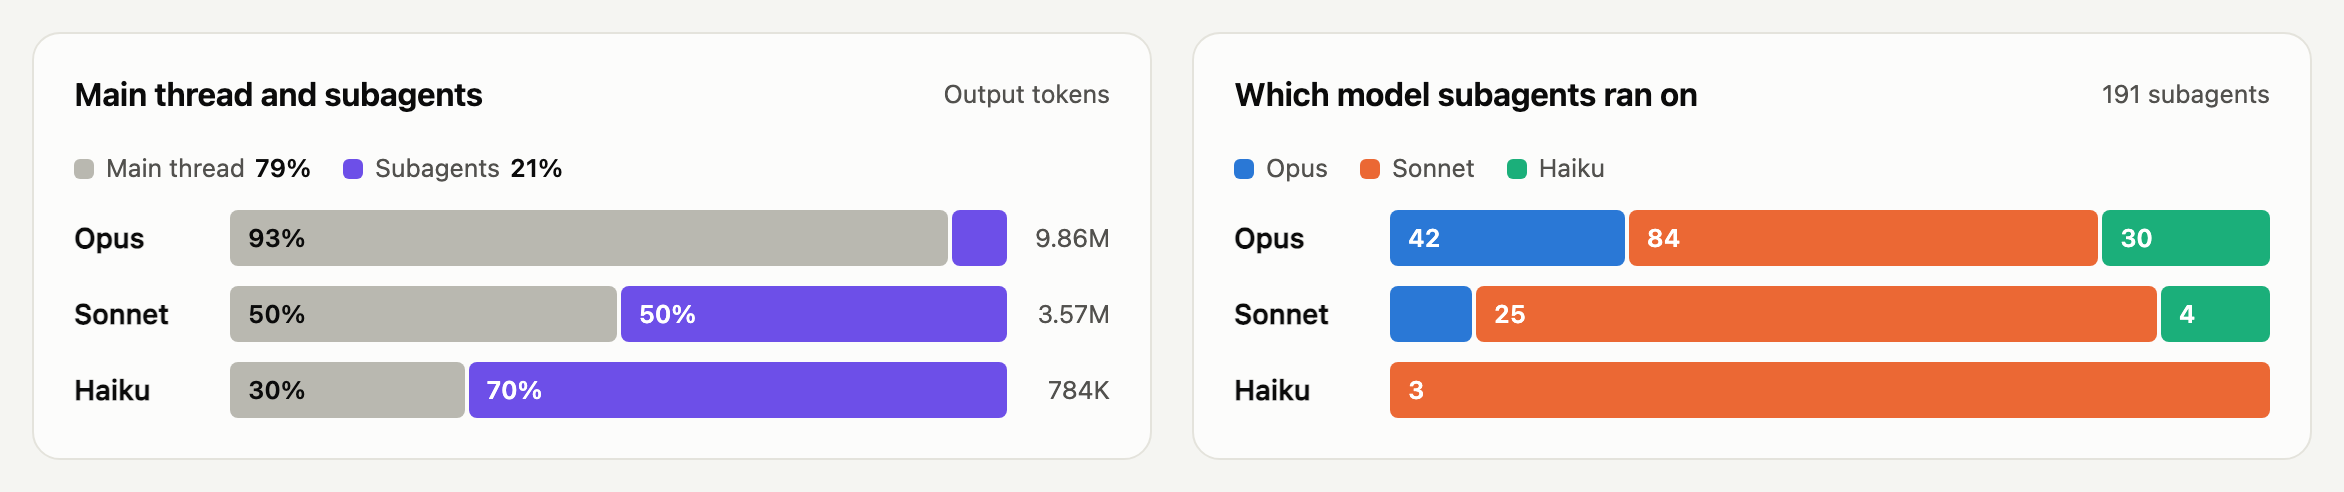
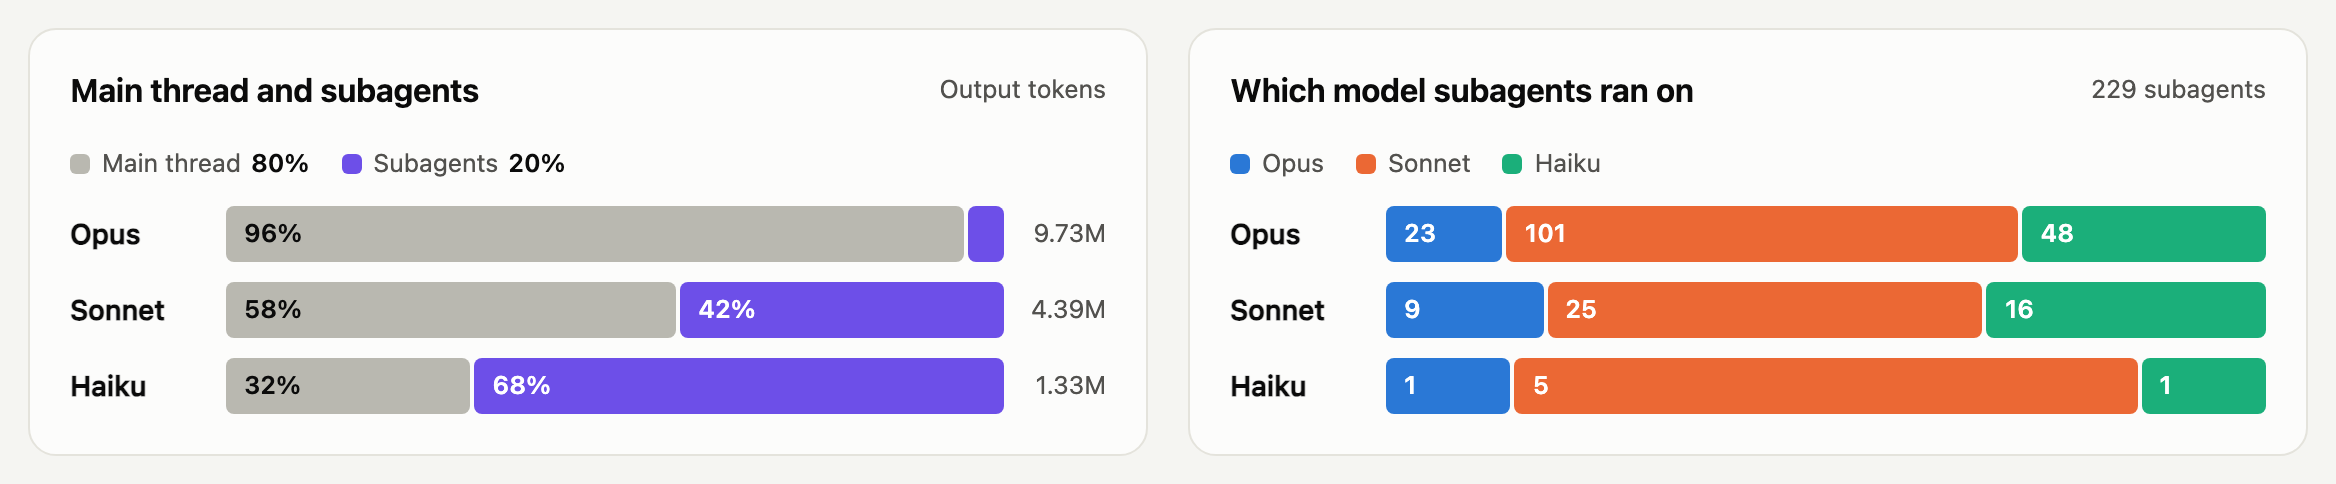
build: add make screenshots to retake the README images

diff --git a/CLAUDE.md b/CLAUDE.md
@@ -8,7 +8,8 @@ A local dashboard and CLI that reads the AI coding agent transcripts on this mac
 | --- | --- |
 | `make` | List the targets |
 | `make start` / `make dev` | Build and serve the dashboard at http://localhost:4310 / the same with hot reload |
-| `make demo` | Serve made-up data at http://localhost:4311; the source of the README screenshots |
+| `make demo` | Serve made-up data at http://localhost:4311 |
+| `make screenshots` | Retake the README screenshots, light and dark, from the `make demo` data with headless Google Chrome (`CHROME` points at another binary) |
 | `make scan`, `make usage DAYS=30 BY=model`, `make prices` | The CLI (`node bin/insights.mjs <command>`) |
 | `make test`, `make check`, `make build` | Tests (`node --test`), dashboard type-check, dashboard build |
 
@@ -28,7 +29,7 @@ Run `make test` and `make check` after every change; `make build` when the dashb
 | `dashboard/` | Vite + React + TypeScript app; one file per view in `dashboard/src/views/`, strings in `i18n.tsx` (English and Vietnamese) |
 | `dashboard/src/extra.ts`, `dashboard/src/index.ts` | How another app embeds the dashboard with views of its own |
 | `test/` | `node --test` suites; `test/fixtures/` builds synthetic transcripts in temp folders, `demo.mjs` the `make demo` data |
-| `docs/assets/` | Logo and README screenshots, light and dark, taken from `make demo` |
+| `docs/assets/` | Logo and README screenshots, light and dark, taken by `make screenshots` |
 
 ## Constraints
 

diff --git a/CONTRIBUTING.md b/CONTRIBUTING.md
@@ -56,7 +56,7 @@ Target `main`, with a Conventional Commit title and this body:
 - **Risks / notes**: compatibility, data or follow-ups;
 - `Closes #<issue>` when it completes one.
 
-Add a screenshot for a visible UI change, taken on synthetic data: `make demo` serves the same made-up data the README screenshots use. Before asking for review, run:
+Add a screenshot for a visible UI change, taken on synthetic data: `make demo` serves the same made-up data the README screenshots use. When a change alters what those images show, `make screenshots` retakes them all. Before asking for review, run:
 
 ```bash
 git diff --check
